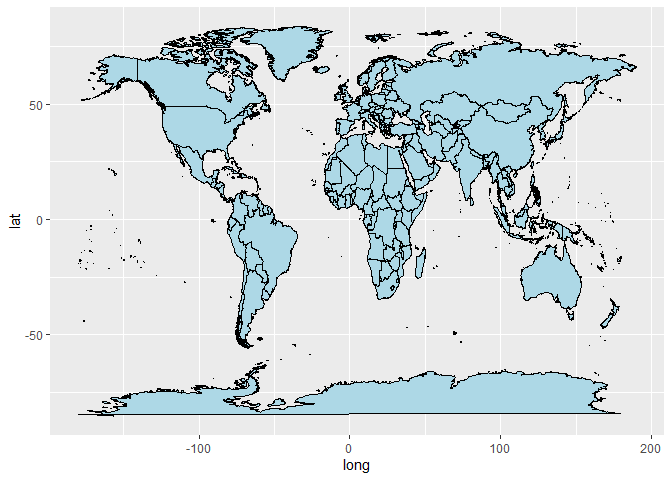
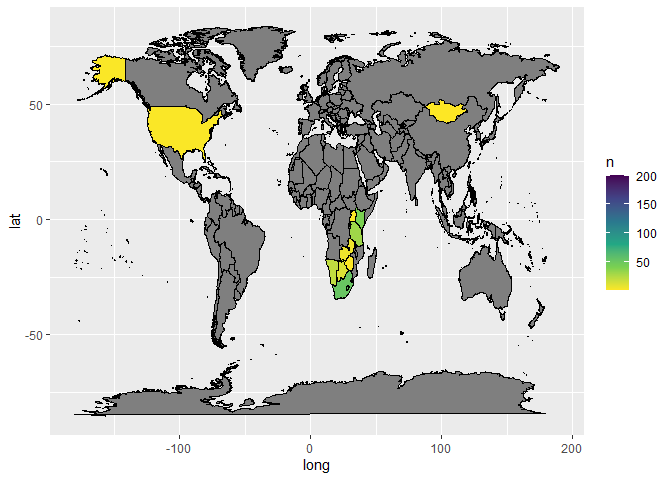
Fixed the map; worked on discussion

diff --git a/README.md b/README.md
@@ -2,7 +2,7 @@ Geographic Distribution Trends Compared to Extinction Risk of Mammals on
 the IUCN Red List
 ================
 Faith
-2021-04-06
+2021-04-08
 
 ## Abstract
 
@@ -85,13 +85,14 @@ searches based on each one’s specific scientific name.
 
 ### Data Preparation
 
-Beginning with the IUCN List, data was prepared for analysis first by
-filtering through all the species present on the Red List so that only
-the equine species were present. This was done by filtering the data to
-only show species who’s family was Equidae. Once the equine species were
-located, only those that had accepted taxonomic status were selected
-for. Then, the data was filtered to only show species as opposed to
-including subspecies and species.
+After loading a few new packages, preparation began with the IUCN List.
+Data was prepared for analysis first by filtering through all the
+species present on the Red List so that only the equine species were
+present. This was done by filtering the data to only show species who’s
+family was Equidae. Once the equine species were located, only those
+that had accepted taxonomic status were selected for. Then, the data was
+filtered to only show species as opposed to including subspecies and
+species.
 
 Next, to make the data easier to navigate several columns not relevant
 to the goal were removed, leaving only the taxon ID, the genus, and the
@@ -119,20 +120,53 @@ the distribution of the seven species.
 Once all the data was organized in a manner that could allow
 visualization, a bar graph was used to depict the occurrence numbers for
 both 2010 and 2020. Two maps were then created to depict a visual
-distribution of occurrences for both years. A t-test was then performed
-to determine if the differences between the two years was significant.
+distribution of occurrences for both years. There were discrepancies
+between the naming patterns within the map and the data tibble, so the
+data tibble names were modified to be uniform with that of the map data.
 
-![](README_files/figure-gfm/unnamed-chunk-10-1.png)<!-- -->
+![](README_files/figure-gfm/unnamed-chunk-8-1.png)<!-- -->
+
+Figure 1. A blank world map to be modified with the occurrence data of
+the seven equine species.
 
 ## Results
 
+![](README_files/figure-gfm/unnamed-chunk-9-1.png)<!-- -->
+
+Figure 2. A bar graph depicting a comparison of the total countries with
+occurrences of individuals from equine species on the IUCN Red List for
+the years of 2010 and 2020.
+
+![](README_files/figure-gfm/unnamed-chunk-10-1.png)<!-- -->
+
+Figure 3. A map displaying the occurrence distributions of the seven
+equine species for the year 2010. The color gradient depicts density of
+occurrences by country. Gray values have no occurrences.
+
 ![](README_files/figure-gfm/unnamed-chunk-11-1.png)<!-- -->
 
-![](README_files/figure-gfm/unnamed-chunk-12-1.png)<!-- -->
-
-![](README_files/figure-gfm/unnamed-chunk-13-1.png)<!-- -->
+Figure 4. A map displaying the occurrence distributions of the seven
+equine species for the year 2020. The color gradient depicts density of
+occurrences by countries. Gray values have no occurrences.
 
 ## Discussion
+
+As an initial observation, both the bar graph and the maps indicate an
+increase in overall occurrence of the seven equine species. The bar
+graph indicates that within the ten year span individuals of the seven
+species began populating multiple new countries and continue to have a
+population in these new countries. The maps also indicate this by
+visually highlighting the new countries (China, Ethiopia, Israel,
+Kazakhstan, Malawi, Mozambique, Nigeria, Togo, the UK, and Ukraine).
+However, it is important to note that some countries that were
+previously highlighted in 2010, were no longer highlighted in 2020 (Iran
+and Mongolia). For those countries that can be seen on both there are
+two contradictory trends. Some show higher occurrences in 2020 over 2010
+(the USA, Zimbabwe, Zambia, Uganda, Kenya, South Africa, and Uganda) and
+others had lower occurrences in 2020 (Botswana, Swaziland, Namibia, and
+Tanzania). In general, the trend appears to be positive for 202, with
+more new countries citing occurrences than old countries not citing
+occurrences and more countries citing higher occurrences than in 2010.
 
 ## Literature Cited
 
